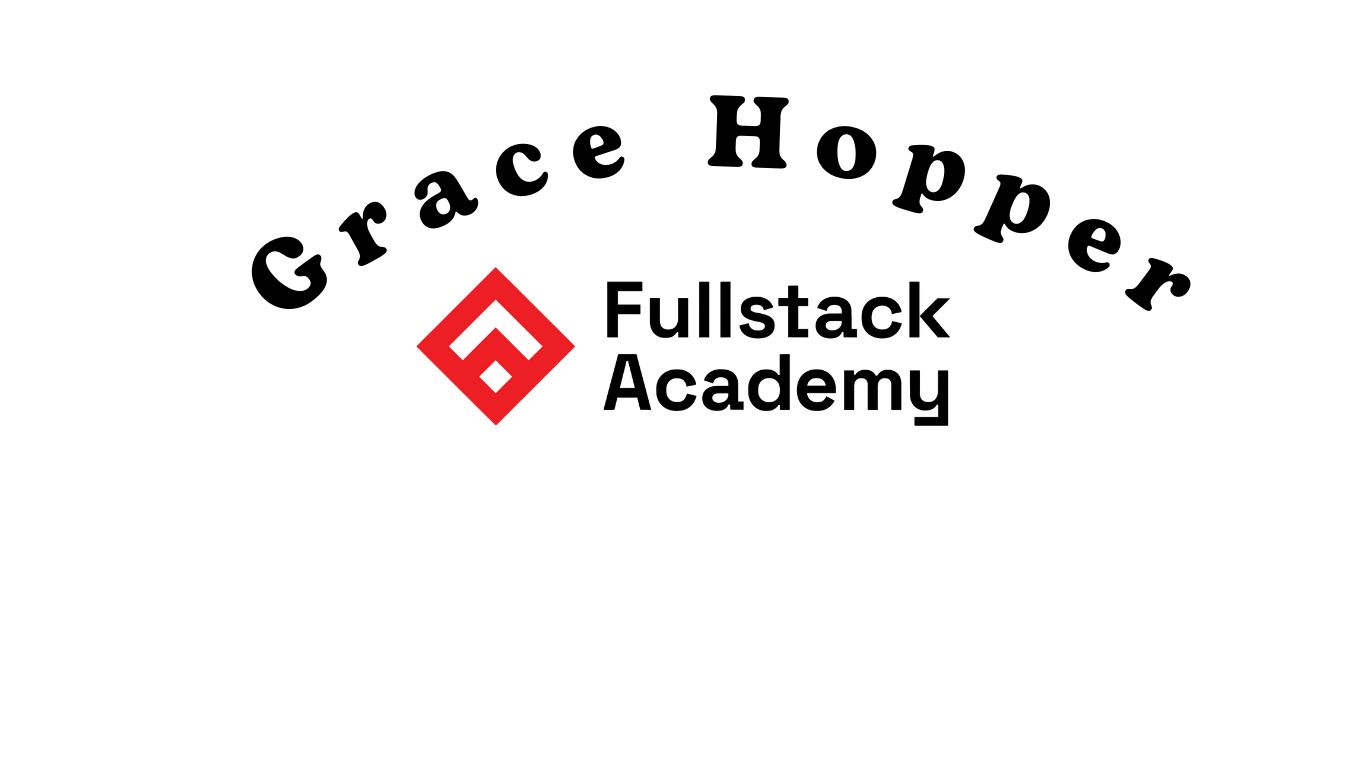
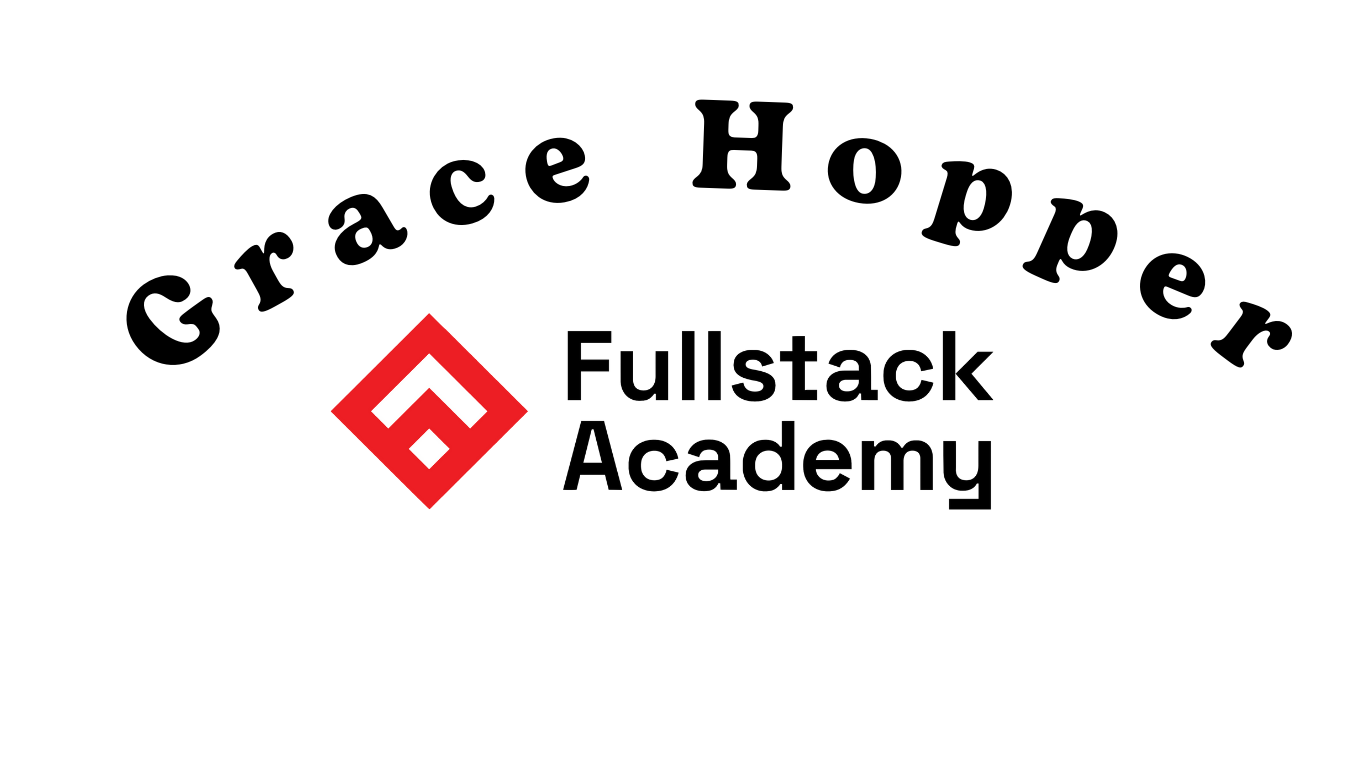
educaiton section done

Changed region(s): [[0.246, 0.3438, 0.7379, 0.6875], [0.4919, 0.125, 0.9531, 0.4688], [0.0922, 0.1562, 0.4612, 0.4688]]

diff --git a/my-app/src/features/LandingPage/Education/education.css b/my-app/src/features/LandingPage/Education/education.css
@@ -10,6 +10,13 @@
     flex-direction: row;
     padding: 3em;
   }
+
+  .educationHeader img{
+      max-width: 100%;
+      height: auto;
+      position: relative;
+      transform: translate(0px, 200px);
+  }
   
   .education-item {
     text-align: center;
@@ -24,9 +31,9 @@
   .education p {
     font-family: 'Bogart', sans-serif;
     font-weight: bold;
-    font-size: 2.5em;
+    font-size: 2.9em;
     text-align: center;
     color: #475D5B;
-    margin-top: 10px; /* Add margin as needed */
+    margin-top: 2em; 
   }
   
